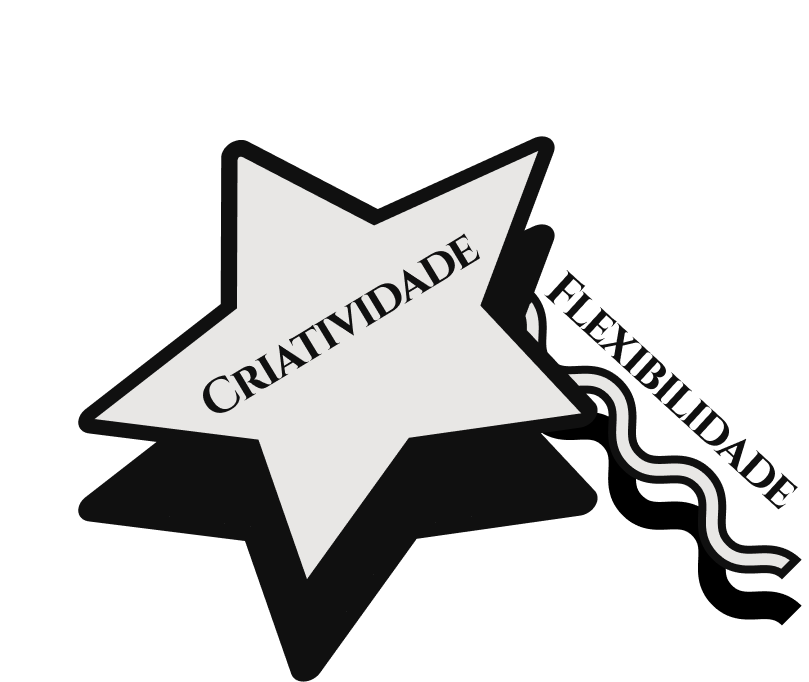
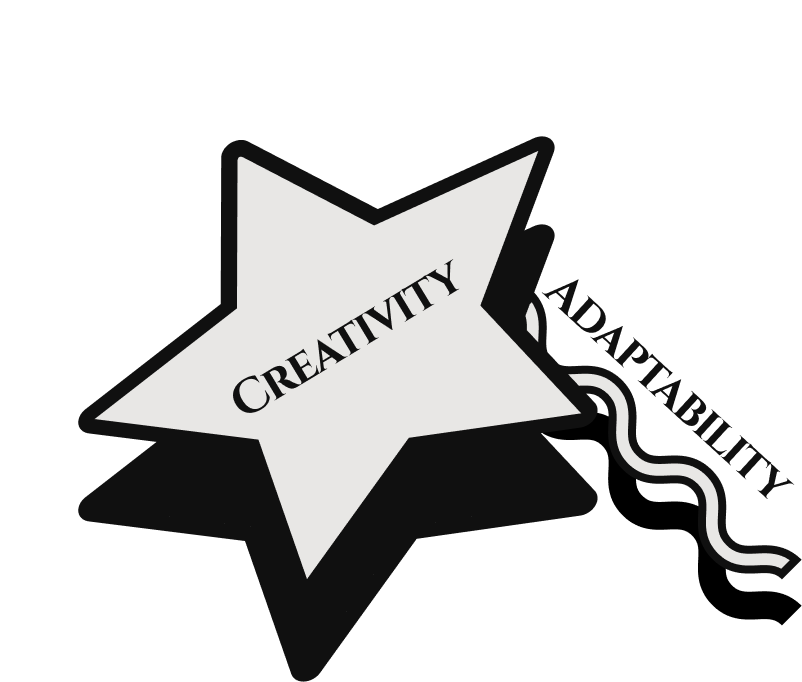
language set up pt en

diff --git a/app/components/Projects.tsx b/app/components/Projects.tsx
@@ -1,71 +1,42 @@
+"use client";
 import React from "react";
 import ComputerScreen from "./ComputerScreen";
+import { useTranslations } from "next-intl";
 
 const Projects = () => {
+  const t = useTranslations("Projects");
   return (
     <section className="py-[12vh] px-10 md:px-36">
       <div className="container lg:flex   max-w-[1160px] mx-auto ">
-        <ComputerScreen computerBgImage="bg-[url('/static/images/private.png')] bg-center"/>
+        <ComputerScreen computerBgImage="bg-[url('/static/images/private.png')] bg-center" />
         <div className="lg:ms-[130px] mt-4 lg:mt-0">
-          <h3 className="text-2xl font-bold">Projeto dashboard intranet</h3>
-          <p className="mt-5">
-            Desenvolvi um dashboard interno para a empresa utilizando Next.js,
-            TailwindCSS e SWR. Essa aplicação proporciona uma interface
-            intuitiva e responsiva, facilitando o gerenciamento de dados e
-            otimização de processos internos. O uso de tecnologias de ponta como
-            Next.js para o front-end, TailwindCSS para estilização e SWR para
-            gerenciamento eficiente de dados garante um desempenho superior e
-            uma experiência de usuário aprimorada, aumentando a produtividade e
-            a eficiência operacional da empresa.
-          </p>
+          <h3 className="text-2xl font-bold">{t("firstTitle")}</h3>
+          <p className="mt-5">{t("firstText")}</p>
         </div>
       </div>
 
       <div className="container  lg:flex lg:flex-row-reverse   max-w-[1160px] mx-auto mt-20 lg:mt-40">
-        <ComputerScreen computerBgImage="bg-[url('/static/images/domain.png')] bg-cover"/>
+        <ComputerScreen computerBgImage="bg-[url('/static/images/domain.png')] bg-cover" />
         <div className="lg:me-[130px] mt-4 lg:mt-0">
-          <h3 className="text-2xl font-bold">Projeto pesquisa de domínios</h3>
-          <p className="mt-5">
-            Um dos meus primeiros projetos na empresa foi a criação de uma
-            página de pesquisa de domínios, desenvolvida com React.js e
-            utilizando dependências avançadas como React Query. Esta solução
-            permitiu uma busca rápida e eficiente de domínios, melhorando
-            significativamente a experiência do usuário e agilizando os
-            processos internos. O uso de React.js e React Query garantiu um
-            desempenho otimizado e uma interface dinâmica, contribuindo para a
-            satisfação dos clientes e a eficiência operacional da empresa.
-          </p>
+          <h3 className="text-2xl font-bold">{t("secondTitle")}</h3>
+          <p className="mt-5">{t("secondText")}</p>
         </div>
       </div>
 
       <div className="container  lg:flex   max-w-[1160px] mx-auto mt-20 lg:mt-40">
-        <ComputerScreen computerBgImage="bg-[url('/static/images/pokedex.png')] bg-cover"/>
+        <ComputerScreen computerBgImage="bg-[url('/static/images/pokedex.png')] bg-cover" />
         <div className="lg:ms-[130px] mt-4 lg:mt-0">
-          <h3 className="text-2xl font-bold">Pokédex</h3>
-          <p className="mt-5">
-            A criação de uma Pokédex foi um dos meus primeiros projetos de
-            estudo, desenvolvido com React e complementado por dependências
-            avançadas como Bootstrap, React Query e Redux. Este projeto
-            demonstrou minha capacidade de integrar diferentes tecnologias para
-            construir uma aplicação rica e interativa.
-          </p>
+          <h3 className="text-2xl font-bold">{t("thirdTitle")}</h3>
+          <p className="mt-5">{t("thirdText")}</p>
         </div>
       </div>
 
       <div className="container  lg:flex lg:flex-row-reverse   max-w-[1160px] mx-auto mt-20 lg:mt-40">
-        <ComputerScreen computerBgImage="bg-[url('/static/images/chat.png')] bg-cover"/>
+        <ComputerScreen computerBgImage="bg-[url('/static/images/chat.png')] bg-cover" />
         <div className="lg:me-[130px] mt-4 lg:mt-0">
-          <h3 className="text-2xl font-bold">Template Next.js Chat App</h3>
+          <h3 className="text-2xl font-bold">{t("fourthTitle")}</h3>
           <p className="mt-5">
-            Desenvolvi um template em Next.js baseado em uma aplicação de chat,
-            utilizando as mais recentes técnicas de design e implementação de
-            SEO. Este projeto não só demonstra minha habilidade em criar
-            interfaces modernas e responsivas, mas também minha competência em
-            otimizar a visibilidade e desempenho da aplicação nos mecanismos de
-            busca. A integração das melhores práticas de SEO assegura uma
-            experiência de usuário superior e maximiza o alcance orgânico da
-            aplicação, destacando meu conhecimento técnico e minha capacidade de
-            aplicar estratégias eficazes de otimização.
+          {t("fourthText")}
           </p>
         </div>
       </div>

diff --git a/app/components/Experience.tsx b/app/components/Experience.tsx
@@ -1,28 +1,31 @@
+"use client"
+import { useTranslations } from "next-intl";
 import Image from "next/image";
 import React from "react";
 
 const Experience = () => {
+  const t = useTranslations("Experience");
   return (
     <section className="py-[6vh]  px-10 lg:px-36 " id="experience">
       <div className="  container max-w-[1160px] mx-auto">
         <div className="lg:flex ">
           <div className="xl:h-[710px]  lg:w-[24%]">
             <div className="w-[100%] h-[60%] lg:border-4 lg:border-black lg:ps-[34px] py-[19px]">
-              <h4 className="font-bold text-2xl mb-5">Educação</h4>
+              <h4 className="font-bold text-2xl mb-5">{t("educationTitle")}</h4>
               <div className="mb-4">
-                <p className="font-bold leading-none">Análise de Sistemas</p>
+                <p className="font-bold leading-none">{t("firstEducation")}</p>
                 <p className="font-light leading-none text-sm">
                   FAETERJ-RIO 2019-2023
                 </p>
               </div>
               <div className="mb-4">
-                <p className="font-bold leading-none">Matemática</p>
+                <p className="font-bold leading-none">{t("secondEducation")}</p>
                 <p className="font-light leading-none text-sm">
                   UERJ 2019-2019
                 </p>
               </div>
               <div className="mb-4">
-                <p className="font-bold leading-none">C. da Computação</p>
+                <p className="font-bold leading-none">{t("thirdEducation")}</p>
                 <p className="font-light leading-none text-sm">
                   UniCarioca 2017-2017
                 </p>
@@ -34,40 +37,24 @@ const Experience = () => {
           </div>
           <div className="w-full xl:h-[710px] lg:w-[76%]">
             <div className="lg:pe-28 lg:w-[100%] xl:h-[80%] lg:border-y-4 lg:border-r-4 border-black lg:ps-[34px] py-[19px]">
-              <h4 className="w-full font-bold text-2xl mb-5">Experiência</h4>
+              <h4 className="w-full font-bold text-2xl mb-5">{t("experienceTitle")}</h4>
               <div className="mb-4">
                 <p className="font-bold leading-none">
-                  Hostnet-Internet (Dez/2022 - Presente){" "}
+                {t("firstExperienceTitle")}
                 </p>
                 <p className="font-light leading-none text-sm">
                   Front-End Developer
                 </p>
                 <p className="lg:ms-7 mt-1 text-base w-full">
-                  Atualmente, sou responsável pela reestruturação completa do
-                  front-end da aplicação da intranet, migrando suas
-                  funcionalidades legadas de PHP para Next.js. Utilizo
-                  dependências avançadas de gerenciamento de estado como SWR,
-                  estilizações eficientes com TailwindCSS e tipagem segura com
-                  TypeScript. Meu trabalho garante um produto final com alta
-                  otimização de componentes e segurança aprimorada, resultando
-                  em uma experiência de usuário superior e desempenho robusto.
+                  {t("firstExperienceText")}
                 </p>
               </div>
               <div className="mb-4">
                 <p className="font-light text-sm">
-                  Suporte Técnico (Ago/2021 - Dez/2022)
+                 {t("secondExperienceSubtext")}
                 </p>
                 <p className="lg:ms-7 mt-1 text-base">
-                  Fui responsável pela manutenção e aprimoramento de código
-                  legado em PHP para clientes hospedados, além de desenvolver
-                  sites e módulos customizados utilizando Beaver Builder e
-                  Elementor. Realizei correções de bugs em plugins, instalação
-                  de novos plugins e otimização de sites em WordPress,
-                  garantindo desempenho superior e satisfação dos clientes.
-                  Conduzi migrações de e-mails com Imapsync e prestei suporte
-                  técnico abrangente, oferecendo soluções rápidas e eficazes
-                  para dúvidas e problemas, assegurando um atendimento de
-                  excelência e fidelização dos clientes.
+                  {t("secondExperienceText")}
                 </p>
               </div>
             </div>

diff --git a/app/components/FormContact.tsx b/app/components/FormContact.tsx
@@ -1,7 +1,10 @@
 "use client";
+import { useTranslations } from "next-intl";
 import React, { useState } from "react";
 
 export default function FormContact() {
+  const t = useTranslations("Contact");
+
   const [formData, setFormData] = useState({
     name: "",
     email: "",
@@ -70,7 +73,7 @@ export default function FormContact() {
             name="name"
             type="text"
             className="lg:w-[268px] h-[41px] border-black border-2 px-3"
-            placeholder="Seu Nome"
+            placeholder={t("yourNameForm")}
             value={formData.name}
             onChange={handleChange}
           />
@@ -78,7 +81,7 @@ export default function FormContact() {
             name="email"
             type="email"
             className="mt-4 lg:mt-0 lg:ms-[29px] lg:w-[268px] h-[41px] border-black border-2 px-3"
-            placeholder="Seu Email"
+            placeholder={t("yourEmailForm")}
             value={formData.email}
             onChange={handleChange}
           />
@@ -88,14 +91,14 @@ export default function FormContact() {
           name="subject"
           type="text"
           className="mt-4 lg:w-[565px] h-[41px] border-black border-2 px-3"
-          placeholder="Assunto"
+          placeholder={t("subjectForm")}
           value={formData.subject}
           onChange={handleChange}
         />
         <textarea
           name="message"
           className="mt-4 lg:w-[565px] py-[10px] border-black border-2 px-3"
-          placeholder="Mensagem"
+          placeholder={t("message")}
           rows={10}
           value={formData.message}
           onChange={handleChange}
@@ -103,6 +106,7 @@ export default function FormContact() {
         <input
           type="submit"
           className="cursor-pointer mt-4 lg:w-[565px] py-[10px] border-black border-4 px-3 font-semibold hover:bg-black hover:text-white"
+         value={t("send")}
         />
       </form>
 

diff --git a/app/components/BigProject.tsx b/app/components/BigProject.tsx
@@ -19,20 +19,10 @@ const BigProject = () => {
         </div>
         
         <div className="max-w-[962px] mx-auto mt-24">
-          <h3 className="text-2xl font-bold">Projeto de automação sisu</h3>
-          <p className="mt-5">
-            Desenvolvi uma aplicação desktop utilizando o framework Wails.js,
-            com React.js no front-end e Golang no back-end, além do
-            armazenamento de dados com SQLite. <br />
-            <br />
-            Esta aplicação é projetada para gerenciar e distribuir alunos
-            aprovados pelo processo seletivo SISU, bem como criar chamadas para
-            os alunos selecionados. <br />
-            <br />O uso dessas tecnologias permitiu a criação de uma solução
-            eficiente, segura e de alto desempenho, aprimorando
-            significativamente o processo de gestão e seleção de alunos,
-            substituindo totalmente a utilização do excel pela faculdade.
-          </p>
+          <h3 className="text-2xl font-bold">{t('title')}</h3>
+          <p className="mt-5" dangerouslySetInnerHTML={{ __html: t.raw("text") }} />
+           
+          
         </div>
       </div>
     </section>

diff --git a/app/components/Contact.tsx b/app/components/Contact.tsx
@@ -1,21 +1,23 @@
+"use client"
 import React from "react";
 import { MdEmail } from "react-icons/md";
 import { FaLinkedin } from "react-icons/fa";
 import FormContact from "./FormContact";
+import { useTranslations } from "next-intl";
 const Contact = () => {
+  const t = useTranslations("Contact");
   return (
     <section className="py-[6vh]  px-10 lg:px-36" id="contact">
       <div className="  container max-w-[1160px] mx-auto">
-        <h2 className="text-4xl font-black text-center">FALE COMIGO</h2>
+        <h2 className="text-4xl font-black text-center">{t("contactMe")}</h2>
         <div className="mt-24 lg:flex justify-between">
           <div>
             <div>
               <h4 className="text-2xl  font-bold">
-                {" "}
-                Vamos fazer algo incrível juntos!
+                {t("contactTitle")}
               </h4>
               <p>
-                Sinta-se livre para falar comigo, estarei sempre à disposição.
+                {t("contactSubtitle")}
               </p>
             </div>
             <div className="mt-4 flex flex-col">
